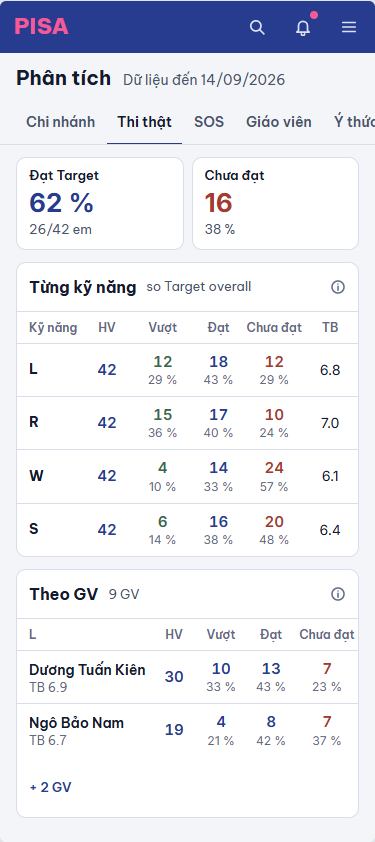
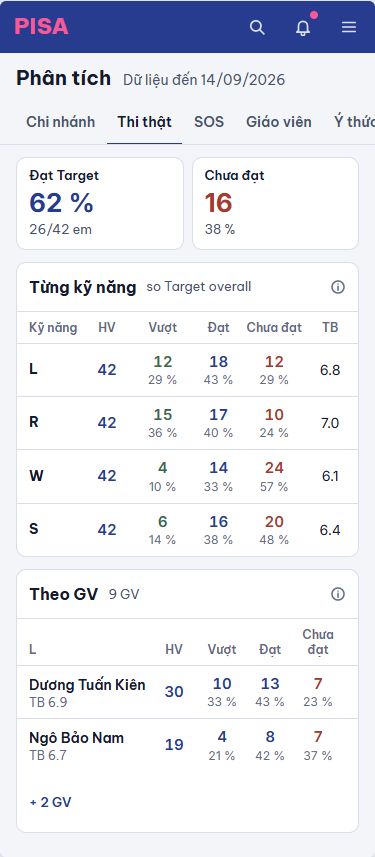
mockup v24 Phân tích: 375 thẻ Theo GV — cột số cuối có lề phải 16, đầu cột Chưa đạt 2 dòng

diff --git a/thiet-ke/v24/phan-tich-panel-so.html b/thiet-ke/v24/phan-tich-panel-so.html
@@ -150,6 +150,7 @@ table.bs { width:100%; border-collapse:collapse; table-layout:fixed; font-size:v
 .dt .the-dau { padding-left:12px; }
 .dt .bc > * > tr > :is(th, td):first-child { padding-left:12px; }
 .dt .bc > tbody > tr > td { padding-top:8px; padding-bottom:8px; }
+.dt .bc.le-phai > * > tr > :is(th, td):last-child { padding-right:16px; }
 .dt .bs td { height:56px; }
 .phu-nen { position:absolute; inset:var(--tt) 0 0 0; background:var(--phu-hop); z-index:4; }
 .to-day { position:absolute; left:0; right:0; bottom:0; z-index:5; background:var(--surface); border-top:1px solid var(--line-strong); border-radius:16px 16px 0 0; box-shadow:0 -10px 28px var(--bong); display:flex; flex-direction:column; max-height:85%; padding-bottom:8px; }
@@ -547,8 +548,8 @@ function dtThi(mo) {
     ${kpi([['Đạt Target', '', '62 %', '26/42 em'], ['Chưa đạt', '', 16, '38 %', 'do']])}
     <div class="the">${theKn('b', mo, true)}</div>
     <div class="the duoi"><div class="the-dau"><h3>Theo GV</h3><span class="phu">9 GV</span>${nutI}</div>
-    <table class="bc"><colgroup><col><col style="width:44px"><col style="width:50px"><col style="width:50px"><col style="width:62px"></colgroup>
-    <thead><tr><th>L</th><th>HV</th><th>Vượt</th><th>Đạt</th><th>Chưa đạt</th></tr></thead>
+    <table class="bc le-phai"><colgroup><col><col style="width:48px"><col style="width:48px"><col style="width:48px"><col style="width:64px"></colgroup>
+    <thead><tr><th>L</th><th>HV</th><th>Vượt</th><th>Đạt</th><th style="white-space:normal;line-height:1.25">Chưa<br>đạt</th></tr></thead>
     <tbody>${GV[0].gv.map((g) => `<tr><td class="ten">${g[0]}<small>TB ${g[6]}</small></td><td>${oSo('b', g[2], 0)}</td><td>${oSo('b', g[3], g[2])}</td><td>${oSo('b', g[4], g[2])}</td><td>${oSo('b', g[5], g[2], 'chua', mo === `gv:${g[0]}` ? 'mo' : '')}</td></tr>`).join('')}
     <tr class="them"><td colspan="5"><button type="button" class="nut-them" style="height:44px">+ 2 GV</button></td></tr></tbody></table></div></div>`;
 }

diff --git a/thiet-ke/v24/phan-tich-panel-so-ghi-chu.md b/thiet-ke/v24/phan-tich-panel-so-ghi-chu.md
@@ -160,7 +160,7 @@ Người vẽ nghiêng về B2 vì việc chính ở Phân tích là so nhiều 
 | A1 | Từng kỹ năng | 66 · 5 × 74 | 438 / 440 | 0 |
 | A1 | Theo GV | 76 · 220 · 5 × 128 | 938 / 940 | 0 |
 | A3-2 (375) | Từng kỹ năng | 62 · 5 × 56 | 341 / 343 | 0 |
-| A3-2 (375) | Theo GV | 135 · 44 · 50 · 50 · 62 | 341 / 343 | 0 |
+| A3-2 (375) | Theo GV | 133 · 3 × 48 · 64 (cột cuối gồm lề phải 16; đầu cột "Chưa đạt" 2 dòng) | 341 / 343 | 0 · số cách viền thẻ 26 |
 | B1 | Panel 720 | 220 · 4 × 125 | 719 / 720 | 0 |
 | B2 | Hộp M | 176 · 104 · 72 · 76 · 130 | 558 / 560 | 0 |
 | B3 | Bảng Theo tuần | 190 · 14 × 86 | 1390 / 1392 | 0 (cả ô viền SOS) |
